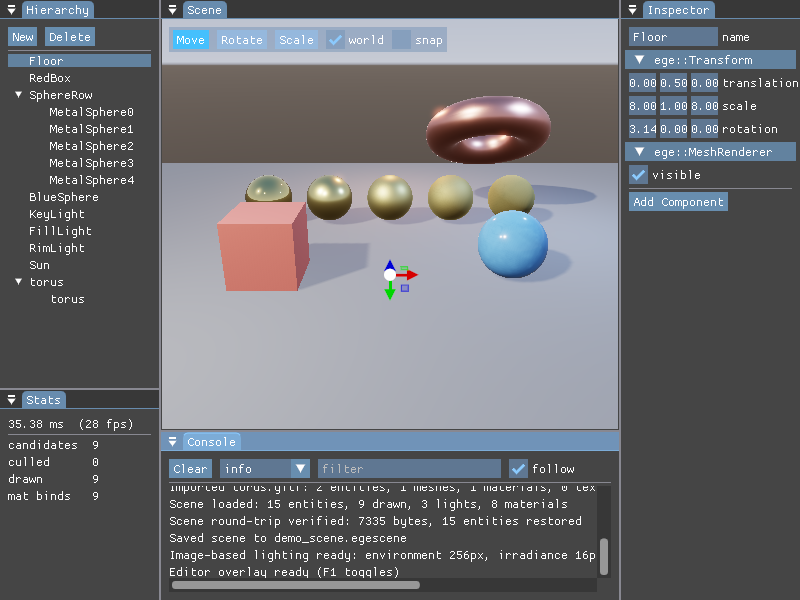
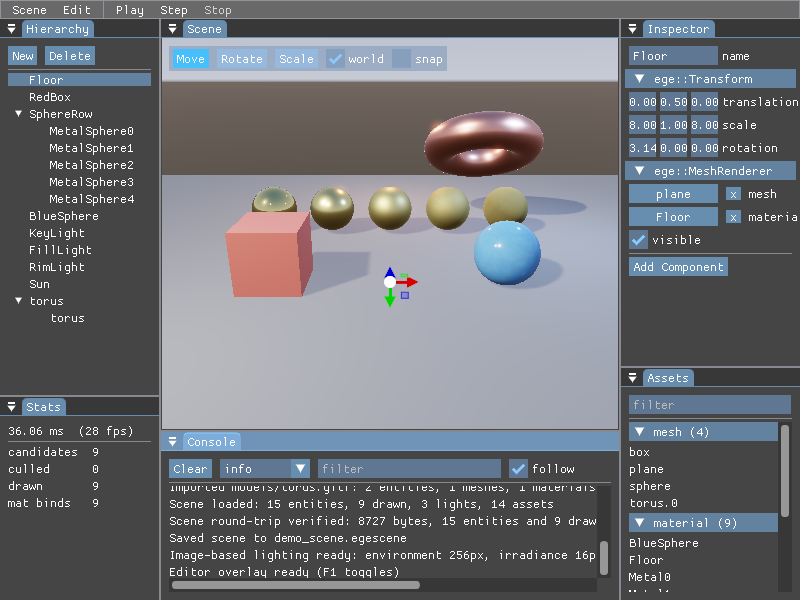
Record the asset database, play mode and undo in the roadmap
Phases 5 and 6 both move to substantially complete, with the outcome notes
saying what landed and, for each thing that did not, why rather than just
that.

Four Phase 6 items are deferred and three of them are sequencing: cooked
packaging and texture compression exist to feed EnchantedPlayer, which is
Phase 10, and building a packer before the thing that unpacks it is how
formats get designed against nothing; hot reload wants the FileWatcher that
Phase 7 builds anyway. The fourth is a hazard rather than a preference -
async loading needs a command pool per thread and Device has one, which is a
data race the validation layers would not necessarily catch.

Two earlier claims are corrected where they were written. Phase 3 said scene
files recorded parenting by entity order; they recorded no parenting at all,
and the round-trip check could not see it because both sides of the
comparison were equally wrong. And the note on MeshRenderer being
unserializable is struck through rather than deleted, because the reason it
was true is the reason the asset database exists.

diff --git a/src/scene/Components.hpp b/src/scene/Components.hpp
@@ -114,5 +114,8 @@ EGE_FIELD(anglesPerSecond).tooltip("Radians per second, applied while playing");
 EGE_REFLECT_END()
 
 // Hierarchy is deliberately not reflected for serialization: the links are
-// runtime entity handles, which are not stable across a save and load. Scene
-// files record parenting by entity order instead - see SceneSerializer.
+// runtime entity handles, and an EntityId is an index into a running world's
+// slot table, which means nothing in the next process. A scene file records
+// parenting as a position in its own entity array instead - see
+// SceneSerializer, which reads them back in a second pass because a child may
+// be written before its parent.

diff --git a/docs/ROADMAP.md b/docs/ROADMAP.md
@@ -2,15 +2,15 @@
 
 > Living document. Describes how the project grows from a Vulkan renderer into a complete game engine.
 >
-> **Status: Phases 0, 1 and 3 complete. Phase 2 essentially complete. Phases 4 and 5 partially complete. Phase 6 not started.**
+> **Status: Phases 0, 1 and 3 complete. Phase 2 essentially complete. Phases 4, 5 and 6 substantially complete. Phase 7 next.**
 >
-> Each phase below carries an outcome note listing exactly what landed and what did not. The **frame graph** — for several updates the single most valuable outstanding item — is done, along with Vulkan 1.3, dynamic rendering, the **complete HDR pipeline** (float target → bloom → ACES), **image-based lighting** from a procedurally generated sky, a **sun with PCF-filtered shadows** rendered through the graph, and **glTF 2.0 import** with materials, textures and hierarchy. **Phase 5 is well underway**: the editor has an offscreen **viewport** with docked panels around it, a hierarchy that creates, deletes and reparents by dragging, a reflection-driven inspector with component add and remove, **transform gizmos**, and a console. Next: Play/Stop, undo/redo, the asset browser, and the **Phase 6 asset database** that gives imported content stable references — which is also what Play/Stop is waiting on, since a world snapshot cannot restore what a scene file cannot describe.
+> Each phase below carries an outcome note listing exactly what landed and what did not. The **frame graph** — for several updates the single most valuable outstanding item — is done, along with Vulkan 1.3, dynamic rendering, the **complete HDR pipeline** (float target → bloom → ACES), **image-based lighting** from a procedurally generated sky, a **sun with PCF-filtered shadows** rendered through the graph, and **glTF 2.0 import**. The **editor** now has an offscreen viewport with docked panels, hierarchy editing, a reflection-driven inspector, transform gizmos, a console, an asset browser, **Play/Pause/Step/Stop** and **undo/redo**. The **asset database** underneath it gives every asset a stable id in a `.egameta` sidecar, which is what finally lets a scene save what it draws — and what unblocked play mode and undo, both of which are world snapshots. A `--demo` camera tour and self-recorded frames make all of it demonstrable. Next: **Phase 7 scripting**, which is what the placeholder `Spin` component is standing in for.
 
 ## 1. Where the project stands today
 
 Enchanted is a **Vulkan 1.3 forward renderer with a metallic-roughness PBR pipeline, image-based lighting and a frame graph**, an entity-component system, runtime reflection, VMA-backed GPU memory, textures with mip generation, a job system and a fixed-timestep clock. The scene renders linear HDR into a graph-managed float target and is tonemapped to the swapchain with the ACES fit; ambient light comes from a procedurally generated sky via irradiance and prefiltered-specular convolutions computed on the GPU at startup. It began as a port of Brendan Galea's Vulkan tutorial series and has since grown past it.
 
-Still absent, and tracked per phase in §6: anti-aliasing, cascaded and point-light shadows, the asset database, play mode, scripting and physics.
+Still absent, and tracked per phase in §6: anti-aliasing, cascaded and point-light shadows, cooked asset packaging, hot reload, scripting and physics.
 
 The Vulkan foundations are idiomatic and are being kept:
 
@@ -27,8 +27,14 @@ The Vulkan foundations are idiomatic and are being kept:
 | `ege::ShadowMapSystem` | Depth-only sun shadow pass; the map itself is a frame graph transient |
 | `ege::BloomSystem` | Half-resolution bright-pass and separable blur, composited before the tonemap |
 | `ege::PostProcessSystem` | Fullscreen ACES tonemap from the HDR scene target to the backbuffer |
-| `ege::EditorOverlay` | In-process editor: viewport, hierarchy, reflection-driven inspector, gizmos, console, stats |
+| `ege::EditorOverlay` | In-process editor: viewport, hierarchy, inspector, gizmos, assets, console, stats |
 | `ege::EditorViewport` | The offscreen image the scene renders into and the UI samples |
+| `ege::PlayMode` | Snapshots the world on Play, restores it on Stop |
+| `ege::UndoStack` | Whole-scene mementos, bounded, with labels |
+| `ege::AssetDatabase` | Stable ids to assets; `.egameta` sidecars, cataloguing, loading |
+| `ege::Guid` | The 128-bit identifier an asset reference is made of |
+| `ege::FrameRecorder` | Writes rendered frames to disk, one PNG per frame |
+| `ege::DemoTour` | The scripted camera move `--demo` runs |
 | `ege::LogBuffer` | The recent log, in memory, for the console to show |
 | `ege::Buffer` | Generic mapped/staged Vulkan buffer |
 | `ege::DescriptorSetLayout` / `Pool` / `Writer` | Fluent descriptor builders |
@@ -287,7 +293,7 @@ Three design notes worth carrying forward:
 - `each()` iterates a snapshot of the driving pool so a callback may despawn or attach without invalidating the walk. That copy is a real per-query cost; a deferred command buffer is the eventual answer.
 - Hierarchy makes the Phase 0 normal-matrix finding bite: a non-uniform parent scale combined with a child rotation introduces shear, which is exactly the case the inverse-scale shortcut excludes. Parented entities use the general `transpose(inverse(M))`; unparented ones keep the cheap path.
 
-`MeshRenderer`'s model and material are deliberately **not** serialized. They are runtime handles, and turning them into stable references is what the asset database in Phase 6 is for — so a reloaded scene currently restores transforms, names, lights and hierarchy but not geometry.
+~~`MeshRenderer`'s model and material are deliberately **not** serialized.~~ They were runtime handles, and a reloaded scene restored transforms, names and lights but nothing to draw. Phase 6's asset database replaced them with id-backed references, and parenting - which this section claimed was recorded by entity order and in fact was not recorded at all - is now written as a position in the file's own entity array.
 
 Two design notes worth carrying forward:
 
@@ -347,7 +353,7 @@ One bug worth recording, found by looking at the output rather than by the build
 
 **Done when:** a scene can be built, arranged, saved, played and stopped entirely inside the editor without touching code.
 
-**Outcome — partial, and past the point where it is only an overlay.** It began as one, as this phase's own sequencing note advises (thin and early beats complete and late): Dear ImGui (docking) drawn as the frame's last declared pass, with a hierarchy tree, a reflection-driven inspector and a stats panel over the backbuffer. It is deliberately in-process — the panels exercise the ECS and reflection APIs now and move into the standalone `EnchantedEditor` application when it exists, rather than being rewritten.
+**Outcome — substantially complete.** It began as one, as this phase's own sequencing note advises (thin and early beats complete and late): Dear ImGui (docking) drawn as the frame's last declared pass, with a hierarchy tree, a reflection-driven inspector and a stats panel over the backbuffer. It is deliberately in-process — the panels exercise the ECS and reflection APIs now and move into the standalone `EnchantedEditor` application when it exists, rather than being rewritten.
 
 *Done:*
 
@@ -363,7 +369,13 @@ One bug worth recording, found by looking at the output rather than by the build
 
 One bug worth recording, found because the viewport made it impossible to miss: editing a parented entity's `Transform` in the inspector changed the numbers and moved nothing. World matrices are cached behind a dirty flag on `Hierarchy`, and writing fields through reflection never set it. Fields now report whether they changed, and an edited entity and its descendants are marked dirty. This is the general shape of the problem reflection-driven editing has — a generic writer knows how to set a field but not what setting it invalidates.
 
-*Not done:* multi-select, an **asset browser** (waiting on Phase 6 — there is no asset database to browse), asset-backed inspector fields for the same reason, **undo/redo**, and **Play / Pause / Step / Stop**. Play/Stop is genuinely blocked rather than merely unscheduled: it snapshots the world on Play and restores it on Stop, and a scene file today cannot describe a `MeshRenderer`, whose model and material are runtime handles. Stopping would restore a scene with no geometry in it. Phase 6's stable asset references are the prerequisite.
+**Play / Pause / Step / Stop.** Play snapshots the world, Stop restores it, Step advances exactly one fixed tick. This was blocked on Phase 6 and said so: a snapshot is a scene file, and until a scene file could describe what a `MeshRenderer` draws, Stop would have handed back a world with no geometry in it. Snapshotting through the serializer rather than by copying pools is slower and deliberate — it means anything a scene file cannot describe does not survive Play, which is a property worth having visible, because it is exactly the set of things that will not survive a save either. Edit and play mode stay distinct by the simplest rule that works: nothing advances the world unless Play asked for it. The one play-mode system is honestly a placeholder — a `Spin` component with an angular velocity — because play mode has to be observable before it can be trusted and, until Phase 7, nothing else in the engine changes the world over time.
+
+**Undo and redo**, as whole-scene mementos rather than inverse commands. The serializer is fast, complete and reflection-driven, so the state before a change is one call away and correct by construction for every kind of edit — a dragged slider, a deleted subtree, a component attached, a reparent — with no command class per operation, each of which is somewhere a bug can hide. Inverse commands earn their cost when copying a scene is expensive; this one is eight kilobytes. The price is stated rather than hidden: restoring respawns every entity, so the selection is re-found by name afterwards. A drag is one step, not one per frame, because the memento is taken when the interaction begins and kept only if something changed before it ended.
+
+**The asset browser**, listing what the project holds by kind, with drag-and-drop into the inspector's mesh and material slots.
+
+*Not done:* multi-select, custom drawers for enums, and the standalone `EnchantedEditor` executable — the panels are still hosted in the engine's own application, which is where they were always going to start. Moving them is a build-system change now rather than a rewrite, which was the point of building them in-process.
 
 ### Phase 6 — Asset pipeline (~4 weeks)
 
@@ -374,6 +386,25 @@ One bug worth recording, found because the viewport made it impossible to miss: 
 - Cooked-asset packaging for `EnchantedPlayer` — a single archive, no source assets shipped.
 
 **Done when:** dropping a `.gltf` into the project folder imports it automatically and it is immediately draggable into the scene.
+
+**Outcome — substantially complete.** The identity half is done, which is the half everything else was blocked on.
+
+**GUID-based asset database.** Scanning the project catalogues every importable file and writes a `.egameta` sidecar for any that lacks one, so an id exists before the first reference to it does — requiring an explicit import step before assets have identities is how a pipeline becomes something people work around. The property the whole thing exists for is pinned by a test: move a file, rename it, rescan, and every reference already written still resolves. Paths are what the database answers, never what it stores.
+
+Three ways to get an id, for three situations. Random and minted into a sidecar, for a file just met. Derived from a name, for assets that exist only in code — the procedural primitives the demo is built from have no file to keep a sidecar beside and still have to be referenceable from a scene. Derived from a container's id plus an index, for the meshes and materials inside a glTF, so reimporting a model does not orphan every reference into it. The name derivation is part of the contract rather than an implementation detail, and the test pins its actual value: changing it would silently break every scene file already written.
+
+**References that survive.** `MeshRenderer` holds asset references rather than pointers, and only the id is written — a pointer is this process's answer to that id and means nothing in the next one. That asymmetry is why the component used to be unserializable, and fixing it is what let a saved scene come back drawable, which in turn unblocked play mode and undo. Parenting is recorded too, as a position in the file's own entity array, because an `EntityId` is an index into a running world's slot table and means nothing on disk.
+
+A native `.egematerial` format loads through the same reflection-driven serializer the scene uses, so a field added to `MaterialProperties` is readable without touching the loader.
+
+The database is split at the device boundary on purpose: cataloguing, sidecars and resolution need no GPU and are unit-tested; loading needs one, returns null without one, and is covered by the headless render test. Without that split none of it would be testable on a machine with no Vulkan device.
+
+*Not done, each for a stated reason:*
+
+- **Cooked-asset packaging** — it exists to feed `EnchantedPlayer`, which is Phase 10. Building the packer before the thing that unpacks it is how formats get designed against nothing.
+- **KTX2 and BC compression** — the same: it is a shipping concern, and the engine ships nothing yet.
+- **Hot reload** for textures, shaders, materials and meshes — wants the `FileWatcher` that Phase 7 builds for script hot reload. Doing it twice would be waste, which is the same reason Phase 2 deferred shader hot reload.
+- **Async loading on the JobSystem** — and this one is a hazard, not a preference. Uploading from a worker thread needs a command pool per thread; `Device` has one, and using it from several threads is a data race the validation layers would not necessarily catch. It lands when the RHI grows per-thread pools, not before.
 
 ### Phase 7 — C++ scripting (~5–6 weeks)
 
@@ -466,6 +497,7 @@ One bug worth recording, found because the viewport made it impossible to miss: 
 | 3 | Load a `.egescene`, edit in the debug overlay, save, reload — identical result |
 | 4 | Render Sponza / Damaged Helmet and compare against glTF sample-viewer references |
 | 5 | Build a scene from scratch in the editor, save, quit, reopen — everything preserved; Play/Stop restores exact pre-play state |
+| 6 | Move a referenced asset on disk, rescan, and the scene still finds it |
 | 7 | Edit a script during a play session; behaviour updates and entity state survives |
 | 8 | Character controller walks, jumps, pushes dynamic bodies, fires triggers; the same fixed-step sim run twice is identical |
 | 9+ | RenderDoc frame captures; frame-time budgets tracked in the profiler panel |

diff --git a/README.md b/README.md
@@ -35,20 +35,51 @@ The copper torus is a **glTF import**: any `.gltf`/`.glb` dropped into
 hierarchy spawned as entities at startup. The demo's torus is itself a
 self-contained text glTF, so the no-binary-assets rule still holds.
 
-![The editor: hierarchy tree, scene viewport with a transform gizmo, reflection-driven inspector, stats and console](docs/images/editor.png)
+## The demo
 
-Press **F1** for the editor. The scene renders into an offscreen image the UI
-samples as a texture, so it is a **viewport** — a panel with its own aspect
-ratio, with the hierarchy, inspector, stats and console docked around it
-rather than floating over the picture they describe. Entities can be created,
-deleted and reparented by dragging, moved with translate/rotate/scale
-**gizmos**, and edited through an **inspector generated entirely from the
-engine's reflection system**: a component gets editable fields, sliders,
-colour pickers and an entry in the add-component list by declaring itself with
-`EGE_REFLECT`, with no inspector code written per type.
+```sh
+./build/default/bin/EnchantedEngine --demo
+```
 
-Still to come: cascaded and point-light shadows, anti-aliasing, play mode and
-undo, the standalone editor application, C++ scripting and physics.
+![A camera tour of the demo scene](docs/images/demo-tour.gif)
+
+A scripted camera move through the scene with the editor hidden and the scene
+playing. Most of what a renderer does only becomes visible when the camera
+moves: a mirror sphere is a coloured ball until its reflection slides across
+it, and a shadow is a dark patch until it swings.
+[`docs/DEMO.md`](docs/DEMO.md) says what each shot is aimed at. The engine
+records its own frames — `--record DIR` writes every one as a PNG, with time
+advancing a fixed step per frame so the same recording is the same on any
+machine.
+
+## The editor
+
+![The editor: hierarchy tree, scene viewport with a transform gizmo, reflection-driven inspector, asset browser and console](docs/images/editor.png)
+
+Press **F1**. The scene renders into an offscreen image the UI samples as a
+texture, so it is a **viewport** — a panel with its own aspect ratio, with the
+hierarchy, inspector, assets and console docked around it rather than floating
+over the picture they describe.
+
+- **Hierarchy** — create, delete and reparent by dragging.
+- **Inspector** — generated entirely from the engine's reflection system. A
+  component gets editable fields, sliders, colour pickers, asset slots and an
+  entry in the add-component list by declaring itself with `EGE_REFLECT`, with
+  no inspector code written per type.
+- **Gizmos** — translate, rotate and scale, world or local, with snapping.
+- **Assets** — everything the project catalogued, draggable into the
+  inspector's slots.
+- **Play / Pause / Step / Stop** — Play snapshots the world and Stop restores
+  it, so running the scene never costs the one you authored.
+- **Undo and redo** over every kind of edit, `Ctrl+Z` and `Ctrl+Shift+Z`.
+
+Assets are referenced by a stable id kept in a `.egameta` sidecar, so a
+reference survives its file being moved, renamed or reimported — and a saved
+scene comes back with its geometry, which is what makes Play/Stop and undo
+possible at all.
+
+Still to come: cascaded and point-light shadows, anti-aliasing, the standalone
+editor application, C++ scripting and physics.
 [`docs/ROADMAP.md`](docs/ROADMAP.md) lays out the plan and tracks, per phase,
 exactly what has landed and what has not.
 
@@ -87,9 +118,10 @@ ctest --test-dir build/default --output-on-failure
 ```
 
 The suite covers logic that needs no GPU — primitive geometry, transform
-maths — so it runs anywhere. Rendering is covered separately by a headless
-smoke test in CI, which draws the demo scene under lavapipe with the
-validation layers enabled and fails on any validation message.
+maths, asset ids and cataloguing, scene round-trips, play mode and undo — so
+it runs anywhere. Rendering is covered separately by a headless smoke test in
+CI, which draws the demo scene under lavapipe with the validation layers
+enabled and fails on any validation message.
 
 ## Controls
 
@@ -100,6 +132,7 @@ validation layers enabled and fails on any validation message.
 | Arrow keys | Look |
 | Hold right mouse | Mouse-look (captures the cursor) |
 | `F1` | Show or hide the editor |
+| `Ctrl+Z` / `Ctrl+Shift+Z` | Undo / redo |
 
 With the editor up, the camera answers only while the cursor is over the
 scene view; anywhere else the mouse and keyboard belong to the panels.
@@ -112,10 +145,11 @@ src/
   core/         application root, logging, assertions, time, job system
   reflect/      runtime type information
   platform/     window and input; everything touching GLFW
-  assets/       glTF import (cgltf); grows into the asset database in Phase 6
-  editor/       in-process panels and the offscreen viewport; the panels move
-                into EnchantedEditor in Phase 5 rather than being rewritten
-  rhi/          device, swapchain, pipeline, buffer, descriptors, textures, frame graph
+  assets/       asset database, stable ids, glTF import (cgltf)
+  editor/       in-process panels, the offscreen viewport, play mode and undo;
+                these move into EnchantedEditor rather than being rewritten
+  rhi/          device, swapchain, pipeline, buffer, descriptors, textures,
+                frame graph, frame recording
   render/       renderer, model, camera, materials, lights, bounds,
                 environment lighting, PBR, shadows, skybox, bloom and post-process
   scene/        world, entities, component pools, components, hierarchy, serialization
